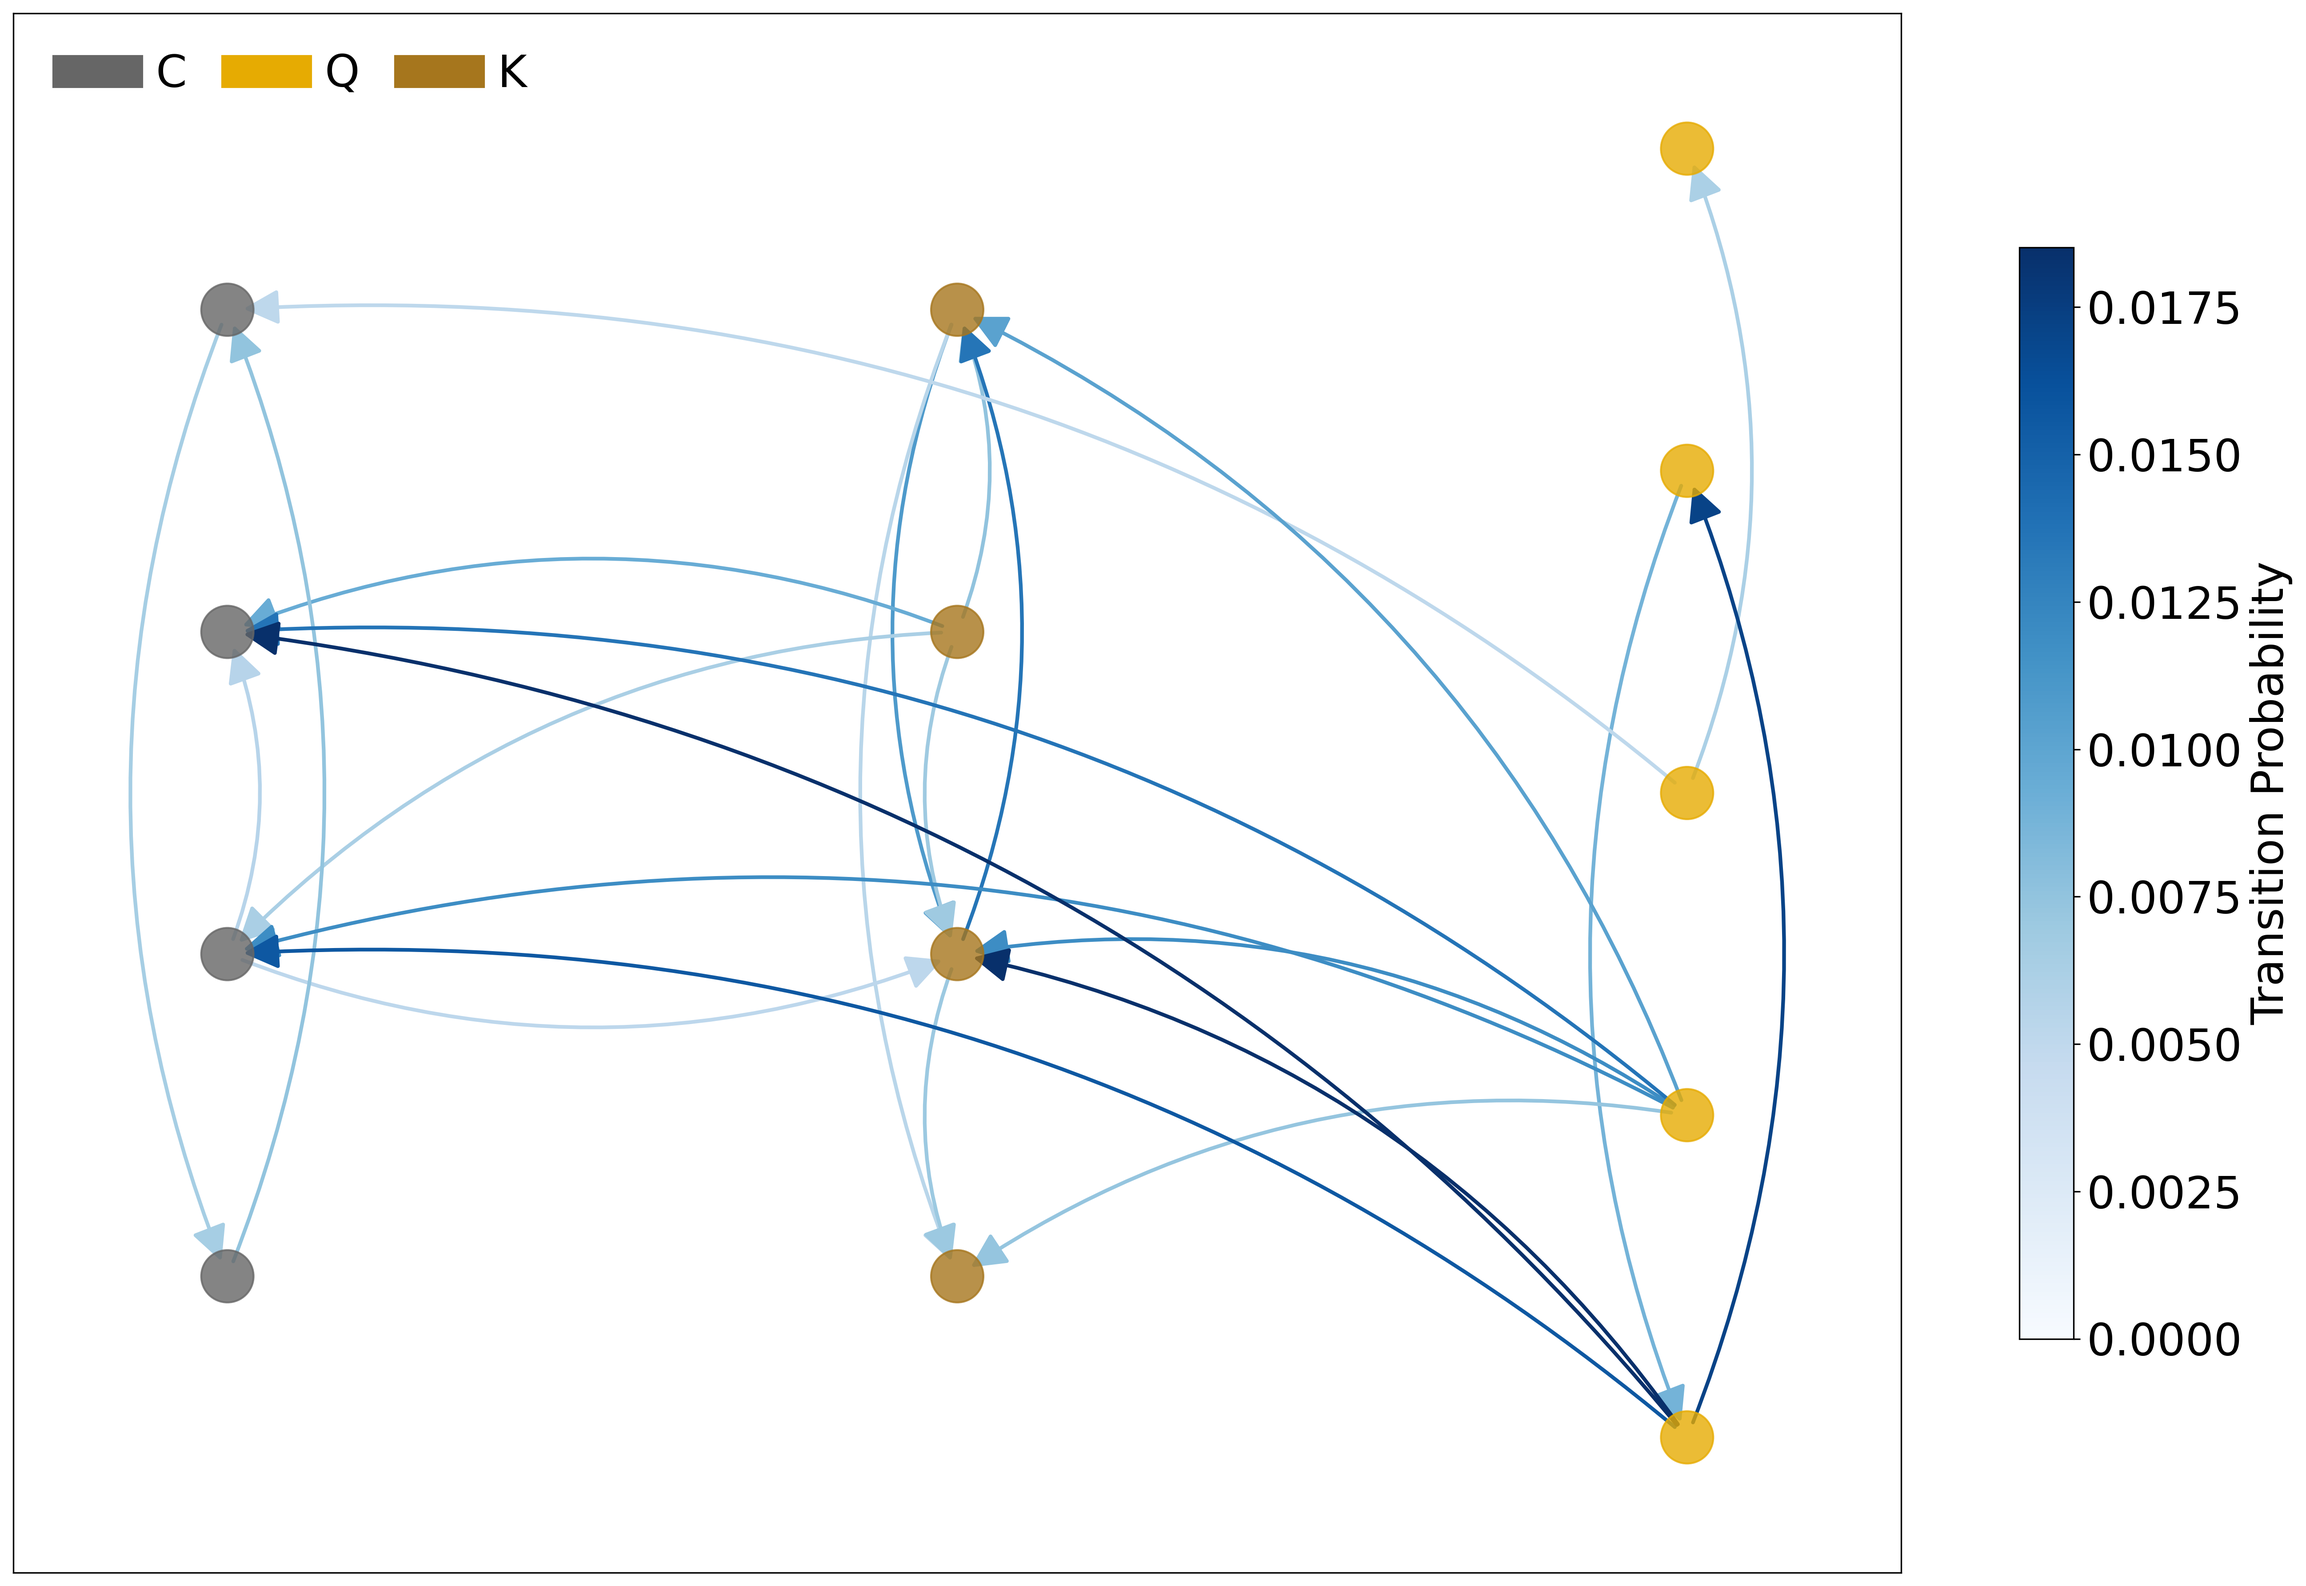
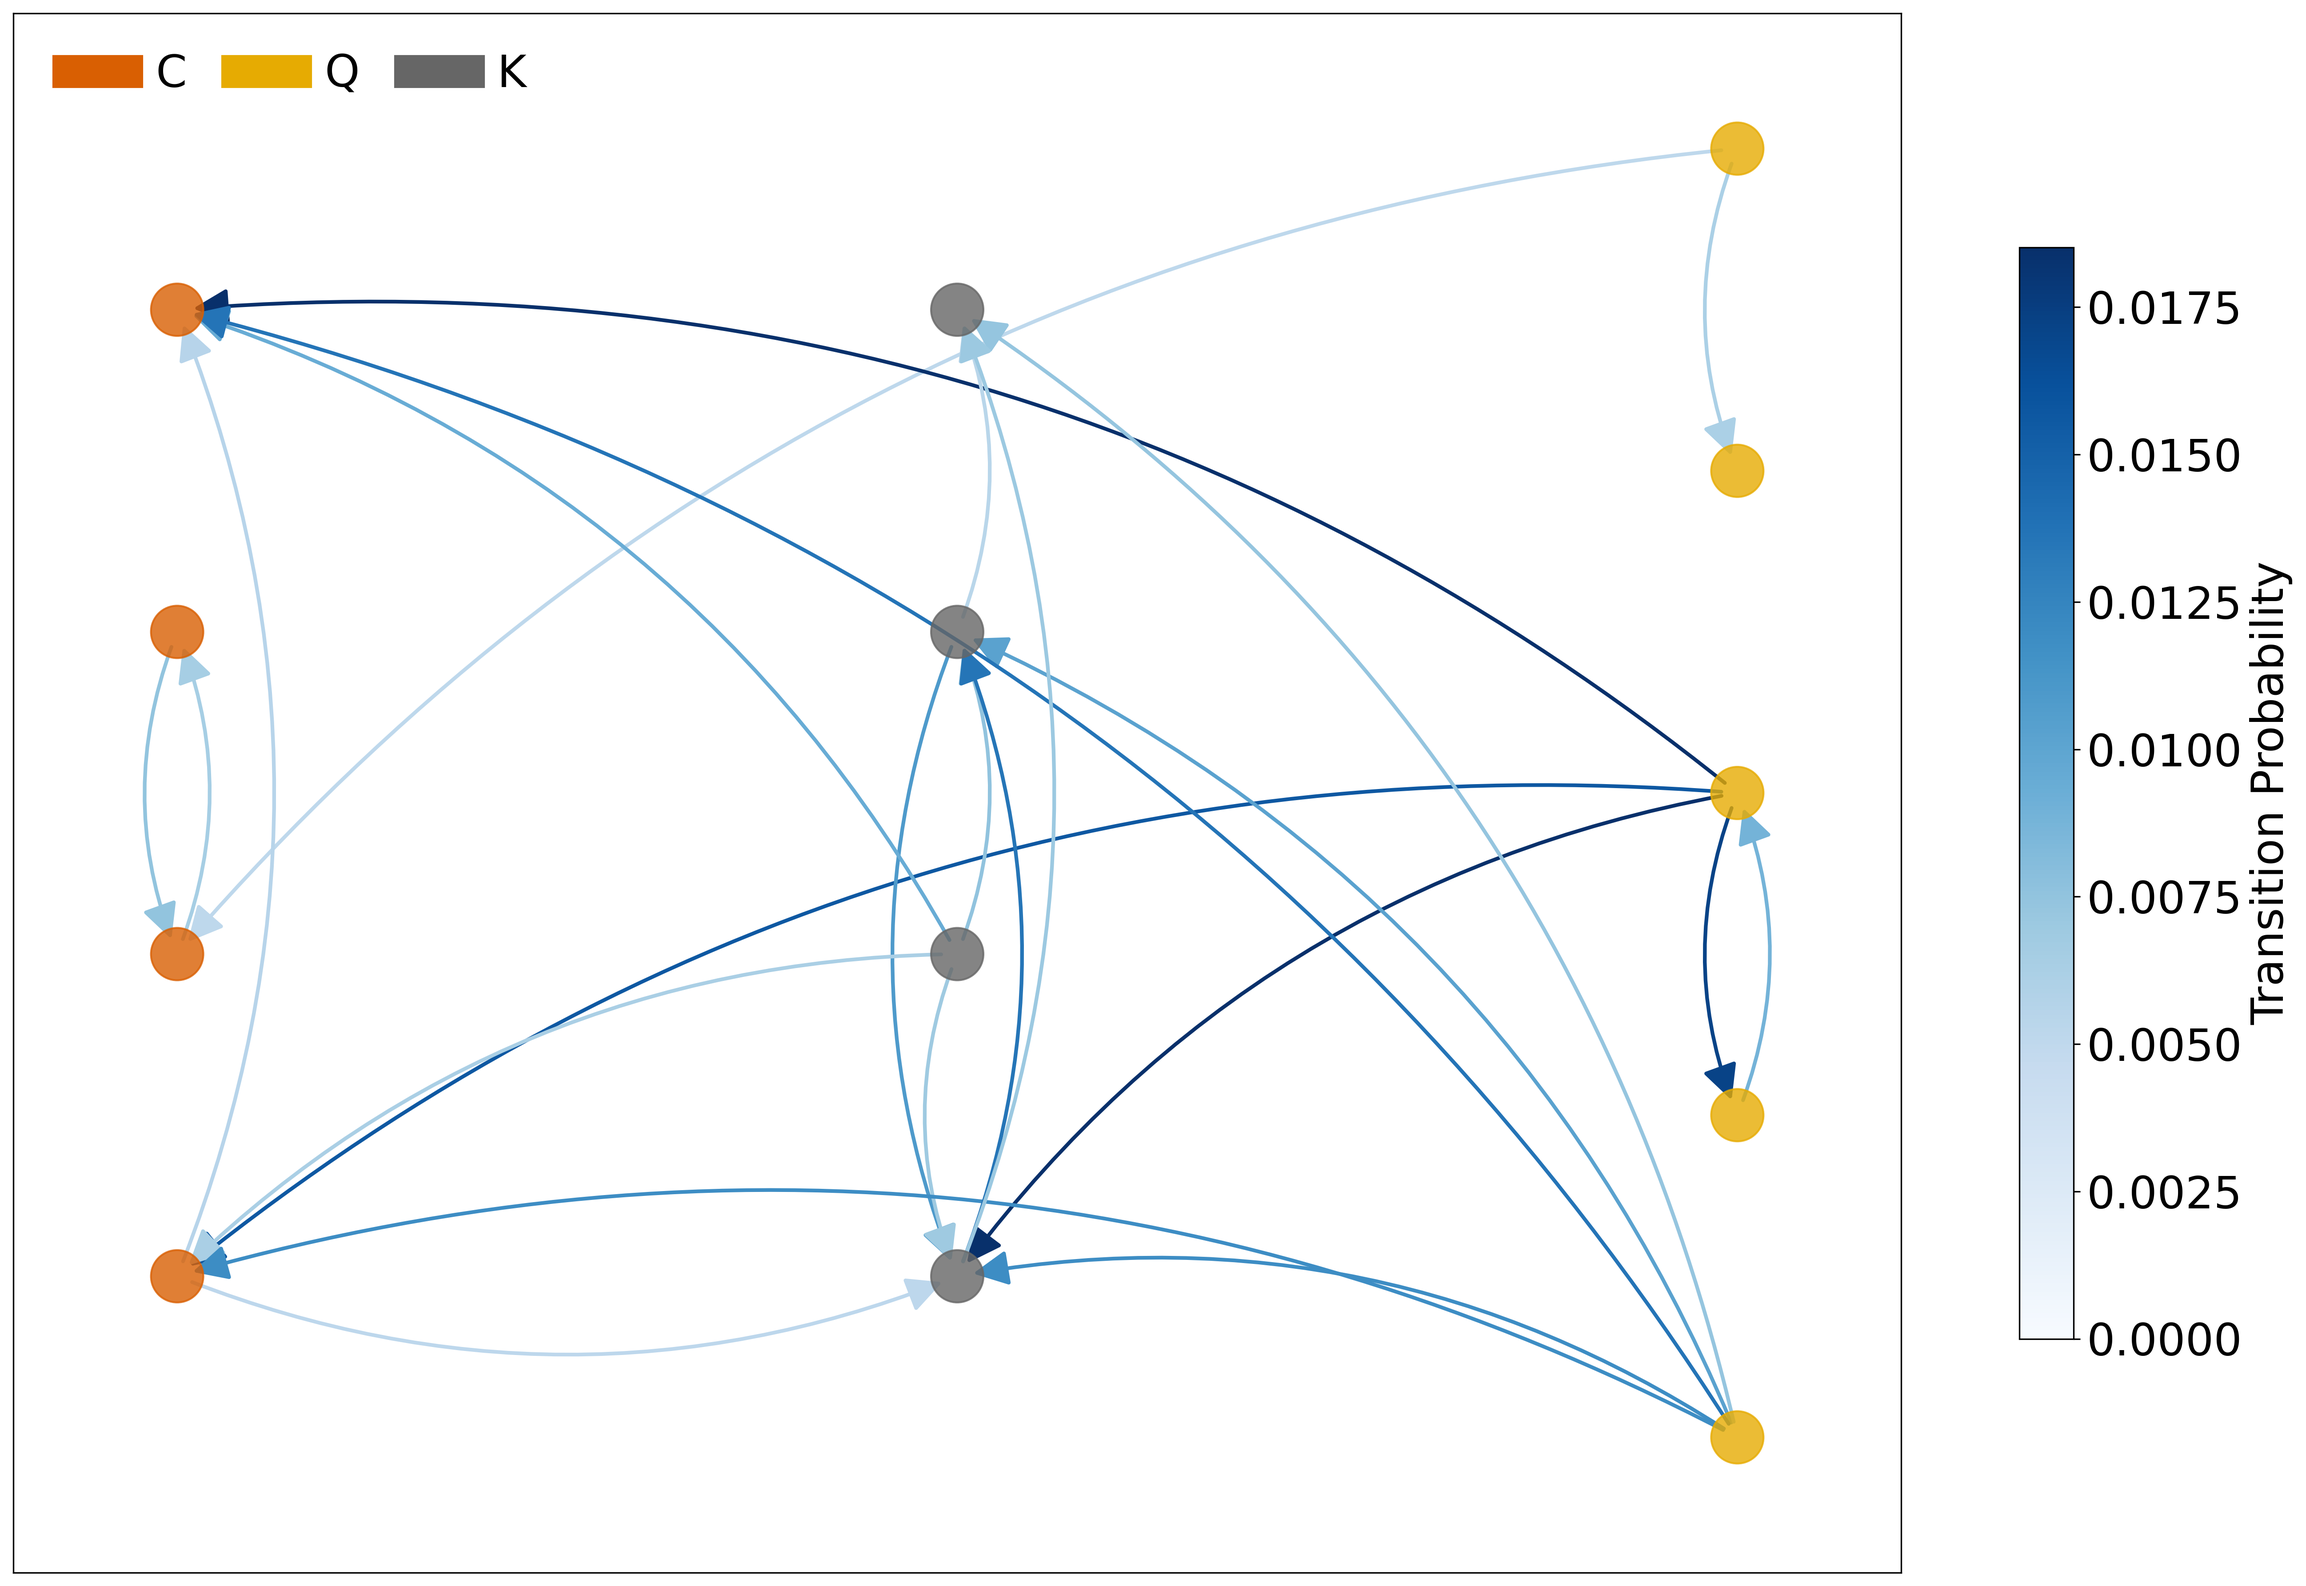
update nw with informations

diff --git a/Transition_Network.py b/Transition_Network.py
@@ -153,14 +153,32 @@ for node in G_sample.nodes:
 # the position of the nodes corresponds to the category
 pos = nx.multipartite_layout(G_sample)
 
-# plot nodes
+# Draw nodes with category colors
 nx.draw_networkx_nodes(
     G_sample, 
     pos, 
     node_size=800,
-    node_color=[category_colors[restaurant_info[n][6]] for n in G_sample.nodes],  # Corrected comprehension
+    node_color=[category_colors[restaurant_info[n][6]] for n in G_sample.nodes],
     alpha=0.8,
     ax=ax
+)
+
+# Create label dictionary with names and ratings
+node_labels = {
+    n: f"{restaurant_info[n][1]}\n({restaurant_info[n][2]:.1f})"  # Name + Rating
+    for n in G_sample.nodes
+}
+
+# Draw labels with improved visibility
+nx.draw_networkx_labels(
+    G_sample,
+    pos,
+    labels=node_labels,
+    font_size=17,  # Slightly smaller than default
+    font_color='black',  # High contrast
+    font_weight='bold',
+    ax=ax,
+    verticalalignment='center'  # Better centering
 )
  #plot edges
 

diff --git a/README.md b/README.md
@@ -63,7 +63,7 @@ This helps distinguish between categories that are broadly appealing and those t
 
 This visualization reveals how users move across the culinary landscape and helps uncover **category-level dynamics** and **local popularity hubs**.
 For example, we observe strong exchange between the restaurants of the brown cluster 'K'. Where the restarants
-of the category 'C' and 'Q' are not as well connected. Furthermore the second (from below) restaurant of the 
+of the category 'C' and 'Q' are not as well connected. Furthermore the first (from below) restaurant of the 
 brown cluster 'K' experience a lot of flow and serves as a hub. 
 
 ##  Folder and Data Structure
